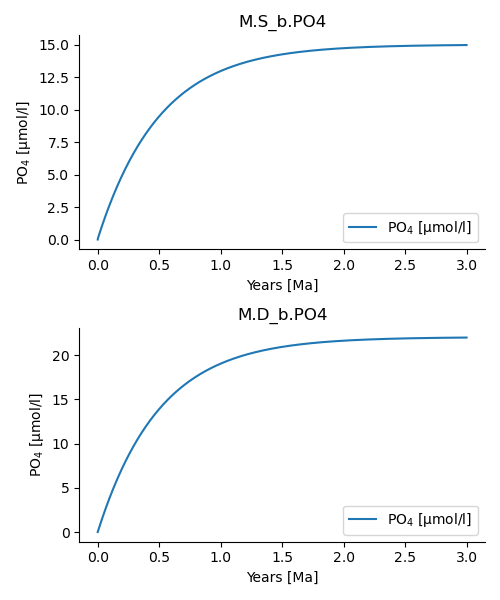
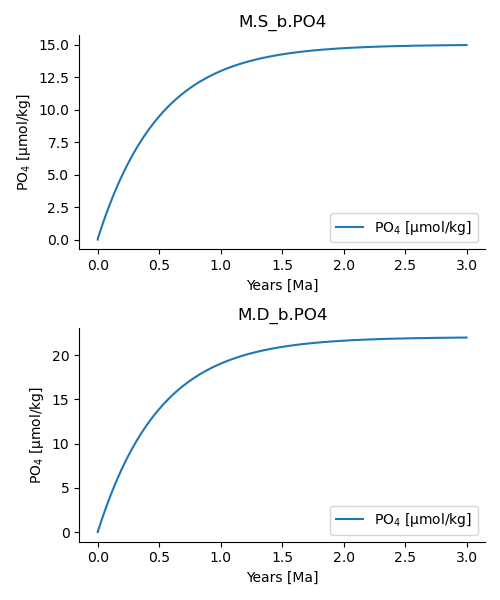
Updated build process

diff --git a/tests/po4_2_test.py b/tests/po4_2_test.py
@@ -8,12 +8,6 @@ from esbmtk import (
     Q_, #for unit parsing
 )
 
-# define fundamental model parameters
-M = Model(
-    stop="3 Myr",  # end time of model
-    max_timestep="1 kyr",  # upper limit of time step
-    element=["Phosphor"],  # list of element definitions
-)
 M = Model(
     stop="3 Myr",  # end time of model
     max_timestep="1 kyr",  # upper limit of time step
@@ -82,6 +76,15 @@ ConnectionProperties(  #
     # volume / time * concentration (i.e. mass per unit volume) = flux (i.e mass transfer per unit time)
     id="primary_production",
     species=[M.PO4],  # apply this only to PO4
+)
+ConnectionProperties(  #
+    source=M.D_b,  # source of flux
+    sink=M.burial,  # target of flux
+    ctype="scale_with_flux",
+    ref_flux="primary_production",
+    scale=F_b,
+    id="burial",
+    species=[M.PO4],
 )
 from esbmtk import Signal
 

diff --git a/tests/po4_1_test.py b/tests/po4_1_test.py
@@ -8,12 +8,6 @@ from esbmtk import (
     Q_, #for unit parsing
 )
 
-# define fundamental model parameters
-M = Model(
-    stop="3 Myr",  # end time of model
-    max_timestep="1 kyr",  # upper limit of time step
-    element=["Phosphor"],  # list of element definitions
-)
 M = Model(
     stop="3 Myr",  # end time of model
     max_timestep="1 kyr",  # upper limit of time step
@@ -82,5 +76,14 @@ ConnectionProperties(  #
     # volume / time * concentration (i.e. mass per unit volume) = flux (i.e mass transfer per unit time)
     id="primary_production",
     species=[M.PO4],  # apply this only to PO4
+)
+ConnectionProperties(  #
+    source=M.D_b,  # source of flux
+    sink=M.burial,  # target of flux
+    ctype="scale_with_flux",
+    ref_flux="primary_production",
+    scale=F_b,
+    id="burial",
+    species=[M.PO4],
 )
 M.run()
